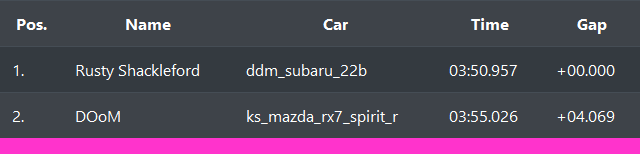
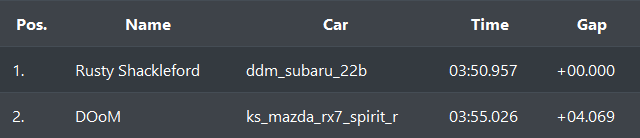
fixes

diff --git a/LeaderboardAPI/Controllers/LeaderboardController.cs b/LeaderboardAPI/Controllers/LeaderboardController.cs
@@ -1,7 +1,7 @@
 using HtmlAgilityPack;
 using Microsoft.AspNetCore.Http;
 using Microsoft.AspNetCore.Mvc;
-using System.Collections.Generic;
+using System.Collections.Generic; 
 using System.Linq;
 using System.Net.Http;
 using System.Text;
@@ -30,15 +30,17 @@ namespace LeaderboardAPI.Controllers {
         public async Task<IActionResult> GetLeaderboardImage(string url) {
             var decoded = System.Net.WebUtility.UrlDecode(url);
             List<LapTime> laps = await GetLapTimes(decoded);
-
+            if (laps == null || laps.Count == 0) {
+                return Ok();
+            }
             var hash = laps.GetHashCode();
             if (hash == Storage.LaptimesHash) {
                 return Ok();
             }
             if (laps != null && laps.Count > 0) {
                 StringBuilder sb = new StringBuilder();
-                sb.Append("<html><link rel=\"stylesheet\" href=\"https://cdn.jsdelivr.net/npm/bootstrap@4.3.1/dist/css/bootstrap.min.css\" integrity=\"sha384-ggOyR0iXCbMQv3Xipma34MD+dH/1fQ784/j6cY/iJTQUOhcWr7x9JvoRxT2MZw1T\" crossorigin=\"anonymous\">");
-                sb.Append("<body style=\"background-color:  #ff33cc;\"><div style=\"width: 640px; height: auto !important; margin-bottom: 0px;\"><table class=\"table table-dark table-responsive table-striped\"><tr><th>Pos.</th><th>Name</th><th>Car</th><th>Time</th><th>Gap</th></tr>");
+                sb.Append("<html style=\"padding-bottom: 0px; margin-bottom: 0px; display: block; height: auto;\"><link rel=\"stylesheet\" href=\"https://cdn.jsdelivr.net/npm/bootstrap@4.3.1/dist/css/bootstrap.min.css\" integrity=\"sha384-ggOyR0iXCbMQv3Xipma34MD+dH/1fQ784/j6cY/iJTQUOhcWr7x9JvoRxT2MZw1T\" crossorigin=\"anonymous\">");
+                sb.Append("<body style=\"display: block; background-color:  #ff33cc;\"><div style=\"display: block; width: auto; height: 100%; !important; padding-bottom: 0px, margin-bottom: 0px;\"><table class=\"table table-dark table-responsive table-striped\" style=\"display: block; height: 100%;\"><tr><th>Pos.</th><th>Name</th><th>Car</th><th>Time</th><th>Gap</th></tr>");
                 foreach (var lap in laps) {
                     sb.Append("<tr><td>");
                     sb.Append(lap.Position);
@@ -50,10 +52,12 @@ namespace LeaderboardAPI.Controllers {
                     sb.Append(lap.Time);
                     sb.Append("</td><td>");
                     sb.Append(lap.Gap);
+                    sb.Append("</tr>");
                     //sb.Append("</td><td>");
                     //sb.Append(lap.Date);
                     //sb.Append("</td></tr>");
                 }
+
                 sb.Append("</table></div></body></html>");
 
                 string html = sb.ToString();
